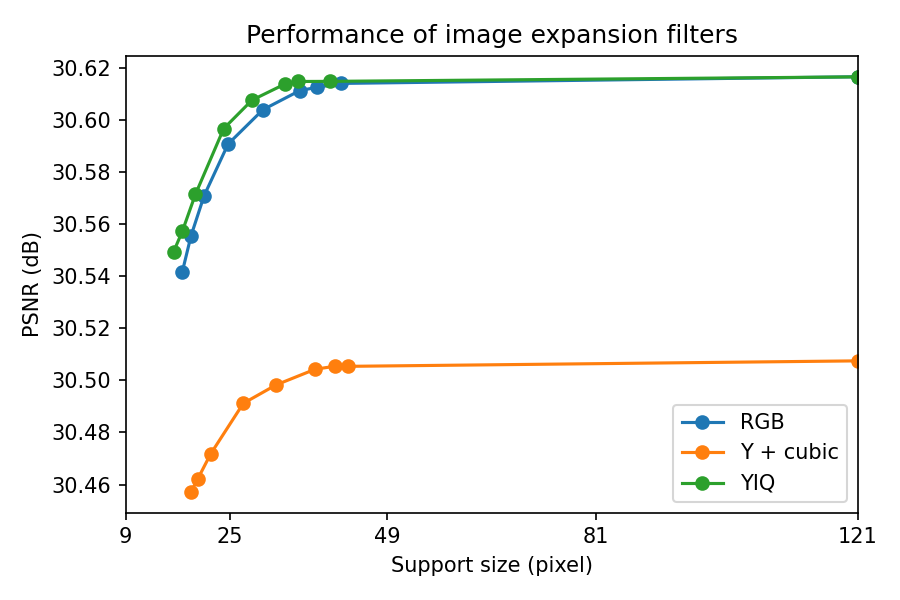
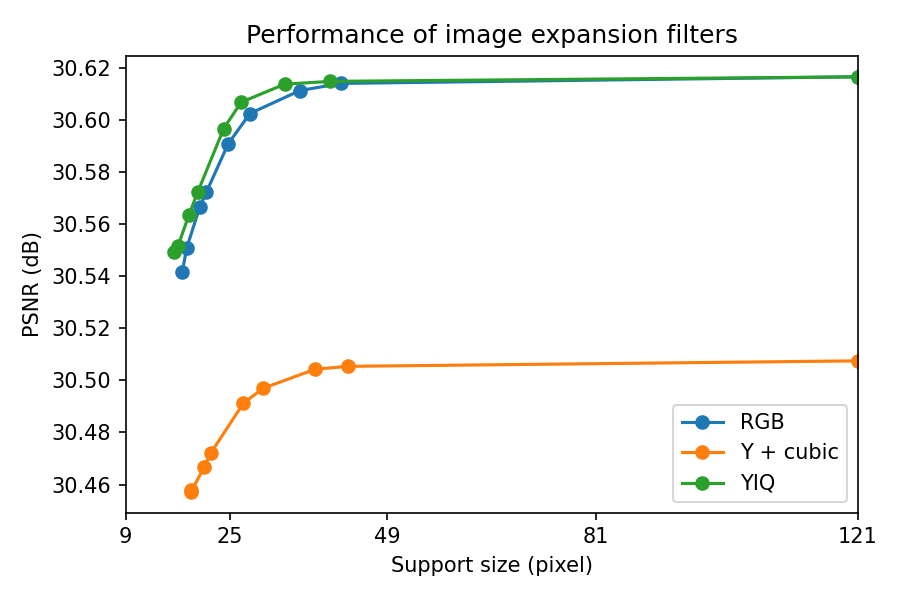
Fixed default

diff --git a/run_paper_experiment.py b/run_paper_experiment.py
@@ -9,7 +9,7 @@ import numpy as np
 from demo import evaluate_models, fit_models, load_images_from_dir
 
 
-DEFAULT_A_ALPHA0 = '5,10,15,20,35,70,110,150,210'
+DEFAULT_A_ALPHA0 = '5,10,20,40,70,100,130,170,210'
 DEFAULT_MODES = 'rgb,yiq-luma,yiq-all'
 MODE_LABELS = {
     'rgb': 'RGB',
